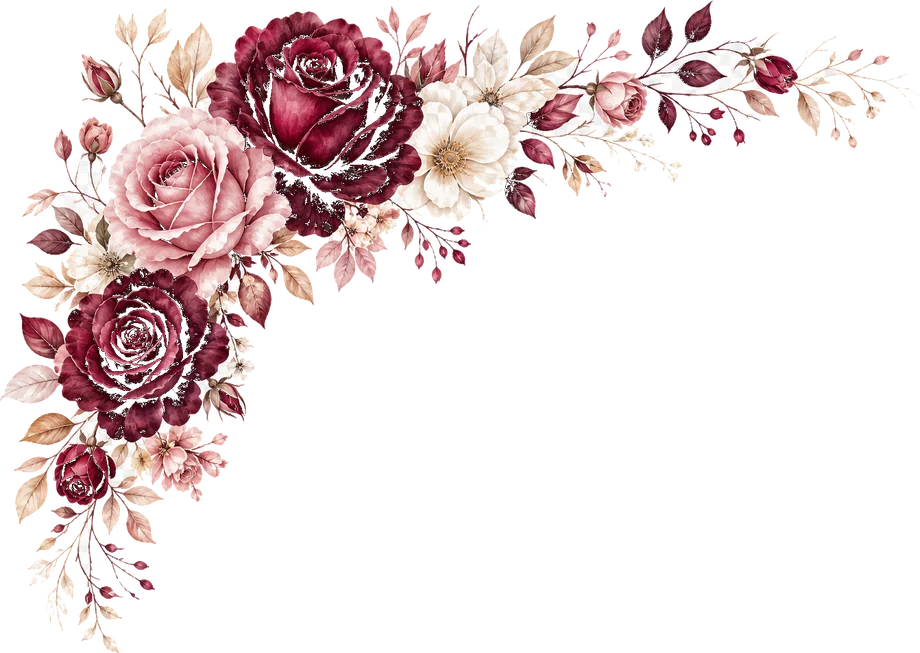
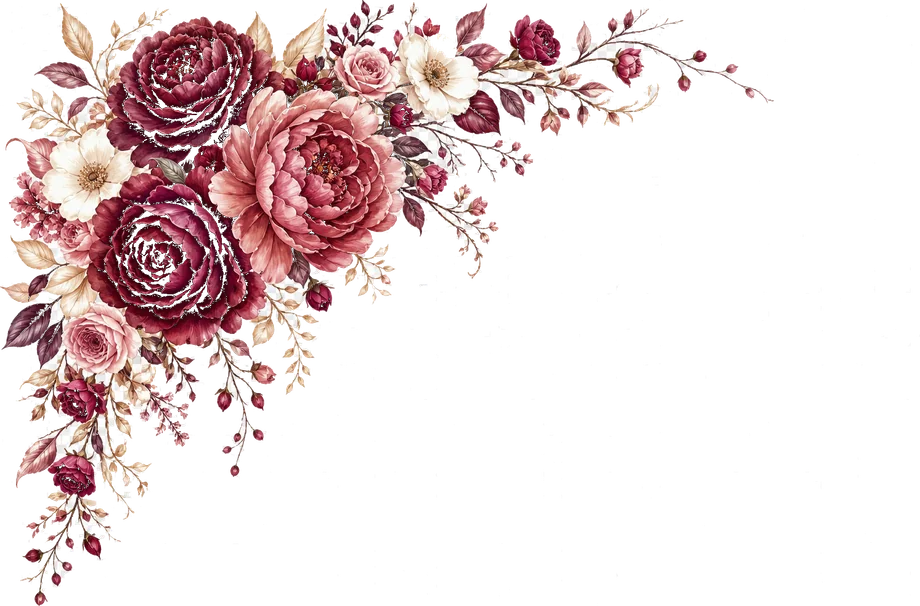
fix(wedding): mirror matching floral corners on cover
Rebuild TL from the same source as BR and unify size so both hug their corners the same way.

diff --git a/engines/true-theme/profiles/jessica-samuel-wedding/jessica-samuel-approved-additions.css b/engines/true-theme/profiles/jessica-samuel-wedding/jessica-samuel-approved-additions.css
@@ -1598,7 +1598,7 @@
   }
 }
 
-/* Floral corners — assets trimmed flush; pin to canvas extremities */
+/* Floral corners — mirrored pair, flush to canvas extremities */
 .js-wedding-floral-corner-tl,
 .js-wedding-floral-corner-br {
   position: absolute;
@@ -1608,13 +1608,13 @@
   height: auto;
   max-width: none;
   object-fit: contain;
+  width: clamp(7.5rem, 44vw, 10.25rem);
+  opacity: 0.7;
 }
 
 .js-wedding-floral-corner-tl {
   top: 0;
   left: 0;
-  width: clamp(8.5rem, 50vw, 11.5rem);
-  opacity: 0.74;
   object-position: top left;
   transform-origin: top left;
 }
@@ -1622,43 +1622,30 @@
 .js-wedding-floral-corner-br {
   right: 0;
   bottom: 0;
-  width: clamp(7.25rem, 42vw, 9.75rem);
-  opacity: 0.64;
   object-position: bottom right;
   transform-origin: bottom right;
 }
 
 @media (min-width: 480px) {
-  .js-wedding-floral-corner-tl {
-    width: clamp(11rem, 36vw, 15.5rem);
-    opacity: 0.76;
-  }
-
+  .js-wedding-floral-corner-tl,
   .js-wedding-floral-corner-br {
-    width: clamp(9.25rem, 30vw, 13.5rem);
-    opacity: 0.66;
+    width: clamp(9.5rem, 32vw, 13.75rem);
+    opacity: 0.72;
   }
 }
 
 @media (min-width: 768px) {
-  .js-wedding-floral-corner-tl {
-    width: clamp(14rem, 28vw, 20rem);
-    opacity: 0.8;
-  }
-
+  .js-wedding-floral-corner-tl,
   .js-wedding-floral-corner-br {
-    width: clamp(12rem, 24vw, 17rem);
-    opacity: 0.7;
+    width: clamp(12.5rem, 26vw, 17.5rem);
+    opacity: 0.76;
   }
 }
 
 @media (min-width: 1024px) {
-  .js-wedding-floral-corner-tl {
-    width: clamp(16rem, 24vw, 22.5rem);
-  }
-
+  .js-wedding-floral-corner-tl,
   .js-wedding-floral-corner-br {
-    width: clamp(14rem, 20vw, 19rem);
+    width: clamp(14.5rem, 22vw, 19.5rem);
   }
 }
 

diff --git a/engines/true-theme/profiles/jessica-samuel-wedding/JessicaSamuelIntroFlow.tsx b/engines/true-theme/profiles/jessica-samuel-wedding/JessicaSamuelIntroFlow.tsx
@@ -152,9 +152,9 @@ function JessicaSamuelIntroOverlay({
         src="/images/jessica-samuel-wedding/floral/floral-corner-top-left.webp"
         alt=""
         width={920}
-        height={653}
+        height={606}
         priority
-        sizes="(max-width: 479px) 50vw, (max-width: 767px) 36vw, (max-width: 1023px) 28vw, 24vw"
+        sizes="(max-width: 479px) 44vw, (max-width: 767px) 32vw, (max-width: 1023px) 26vw, 22vw"
         className="js-wedding-floral-corner-tl"
         aria-hidden="true"
       />
@@ -163,7 +163,7 @@ function JessicaSamuelIntroOverlay({
         alt=""
         width={920}
         height={606}
-        sizes="(max-width: 479px) 42vw, (max-width: 767px) 30vw, (max-width: 1023px) 24vw, 20vw"
+        sizes="(max-width: 479px) 44vw, (max-width: 767px) 32vw, (max-width: 1023px) 26vw, 22vw"
         className="js-wedding-floral-corner-br"
         aria-hidden="true"
       />